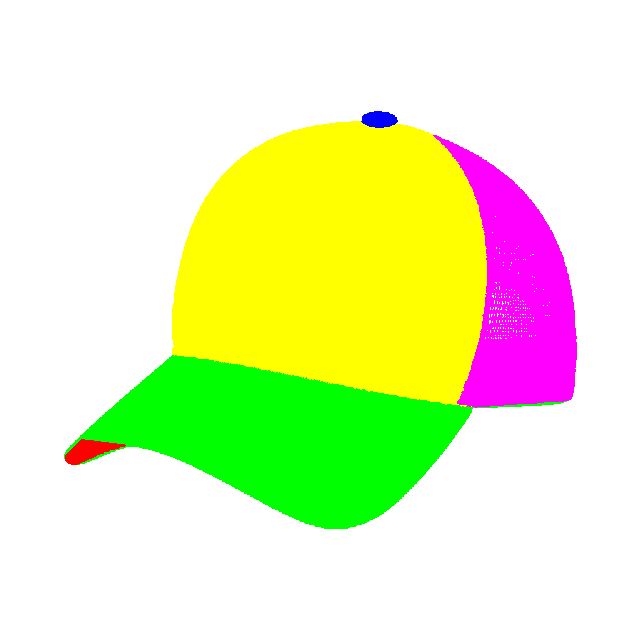
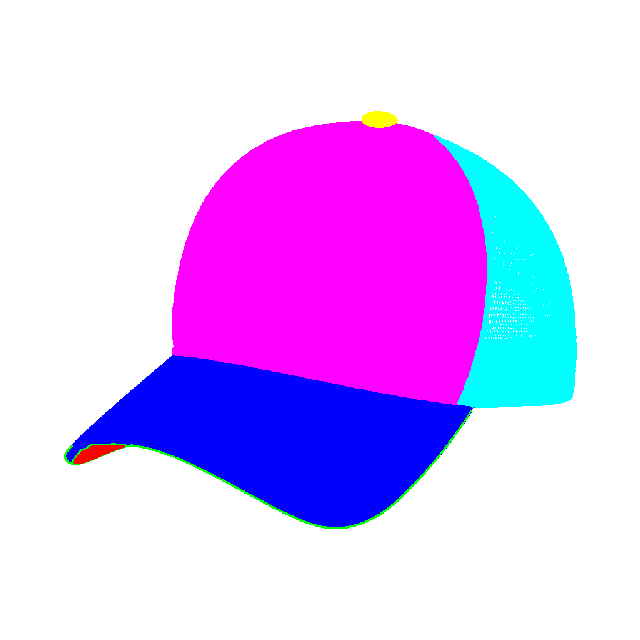
Publica: americano de tela com aba sanduíche
Claude-Session: https://claude.ai/code/session_01P5dwRiSmGiEBhHdiTEeUXr

diff --git a/assets/js/desenhos.js b/assets/js/desenhos.js
@@ -73,7 +73,7 @@ export const DESENHOS = {
     medidas: { copa: { altura: 1.12, frente: 3.1, tras: 2.0 }, aba: { curva: 0.34 }, arte: { altura: 0.52, tamanho: 0.66 } },
   },
   "americano-tela": {
-    tipo: "bone", gomos: 6, tela: true, fecho: "snap",
+    tipo: "bone", gomos: 6, tela: true, fecho: "snap", sanduiche: true,
     medidas: { copa: { altura: 1.04, frente: 2.7 } },
   },
   "americano": {
@@ -167,6 +167,8 @@ export function partesDoDesenho(id) {
       { id: "traseira", nome: d.tela ? "Tela de trás" : "Traseira" },
       { id: "aba", nome: "Aba" },
       { id: "aba-baixo", nome: "Embaixo da aba" },
+      // a beirada colorida entre a aba de cima e a de baixo
+      ...(d.sanduiche ? [{ id: "aba-sanduiche", nome: "Aba sanduíche" }] : []),
       { id: "botao", nome: "Botão" },
     ];
   }

diff --git a/assets/js/monte.js b/assets/js/monte.js
@@ -471,6 +471,7 @@ function aplicarCombinacao(combinacao) {
     let cor = principal;
     if (comTela && (parte.id === "laterais" || parte.id === "traseira")) cor = contraste;
     if (!comTela && (parte.id === "aba-baixo" || parte.id === "botao")) cor = contraste;
+    if (parte.id === "aba-sanduiche") cor = contraste;
     estado.cores[parte.id] = cor;
     emTodos((palco) => palco.pintar(parte.id, cor));
   });
